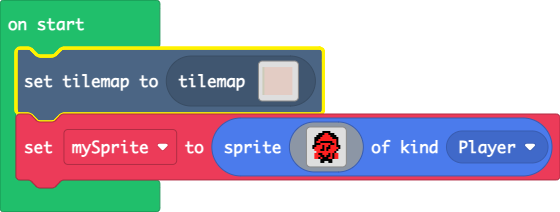
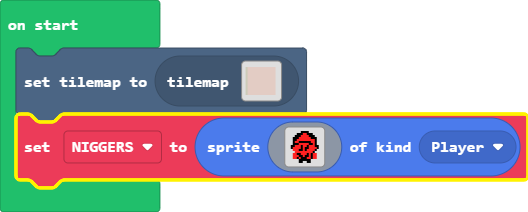
Update main.blocks, main.ts

diff --git a/main.ts b/main.ts
@@ -1,5 +1,5 @@
 tiles.setCurrentTilemap(tilemap`level2`)
-let mySprite = sprites.create(img`
+let NIGGERS = sprites.create(img`
     . . . . . . f f f f . . . . . . 
     . . . . f f f 2 2 f f f . . . . 
     . . . f f f 2 2 2 2 f f f . . . 
